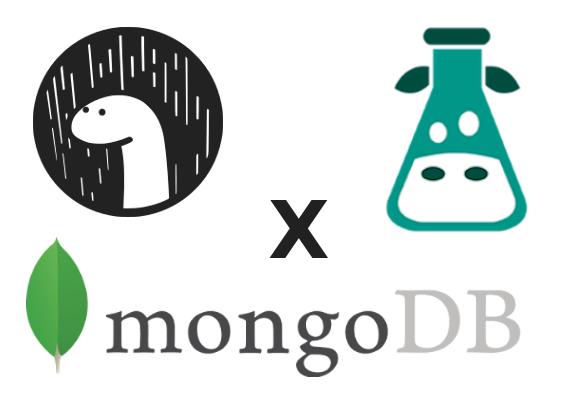
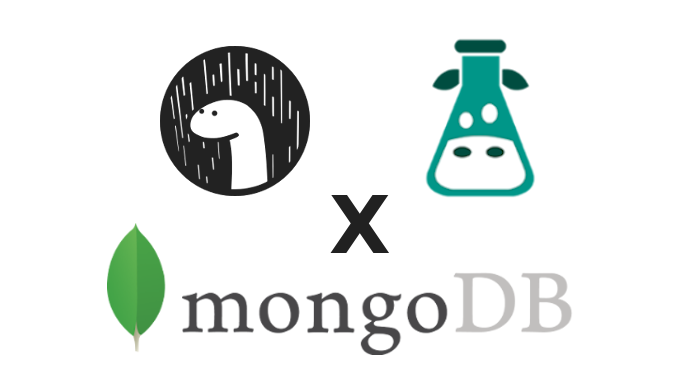
Fix Github Action for Windows && Fix README.md

diff --git a/README.md b/README.md
@@ -5,7 +5,10 @@
 
 # Integrate [i18next](https://github.com/i18next/i18next) with [MongoDB](https://www.mongodb.com/) in Deno 🦖
 
-<img src="asset/banner.png" alt="Banner"/>
+<div align="center">
+<img src="asset/banner.png"/>
+<!-- Inspired from https://github.com/grikomsn -->
+</div>
 
 # Introduction
 
